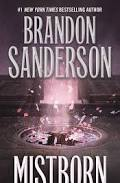
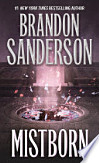
Draft 1

diff --git a/css/index.css b/css/index.css
@@ -177,11 +177,27 @@ header div p {
   font-size: 4.8rem;
   padding: 1%;
 }
+@media (max-width: 500px) {
+  .headerpg2 h1 {
+    font-size: 3.5rem;
+    margin-bottom: 2%;
+  }
+}
 footer {
   text-align: center;
 }
+@media (max-width: 500px) {
+  footer {
+    padding: 2%;
+  }
+}
 footer nav {
   margin: 2% auto;
+}
+@media (max-width: 500px) {
+  footer nav {
+    padding: 1%;
+  }
 }
 footer nav a {
   text-decoration: none;
@@ -191,6 +207,11 @@ footer nav a {
 }
 footer p {
   margin: 1% auto;
+}
+@media (max-width: 500px) {
+  footer p {
+    padding-top: 2%;
+  }
 }
 .features {
   text-align: center;
@@ -225,6 +246,7 @@ footer p {
 .book h3,
 .book h4 {
   color: black;
+  margin-top: 3%;
 }
 .book span {
   color: #FCE181;
@@ -239,17 +261,9 @@ footer p {
   margin: 3% 5%;
   width: 20%;
 }
-.book .books article .shrink {
-  width: 44%;
-}
-@media (max-width: 800px) {
-  .book .books article .shrink {
-    width: 65%;
-  }
-}
 @media (max-width: 500px) {
-  .book .books article .shrink {
-    width: 100%;
+  .book .books article {
+    width: 40%;
   }
 }
 .pg2content {
@@ -260,6 +274,11 @@ footer p {
 .pg2content div {
   align-items: center;
   width: 30%;
+}
+@media (max-width: 500px) {
+  .pg2content div {
+    width: 100%;
+  }
 }
 .pg2content div img {
   width: 65%;

diff --git a/index.html b/index.html
@@ -36,7 +36,7 @@
         <div class="books">    
             <article>
                 <div>
-                   <a href =""><img class ="shrink" src="images/WOK.jpg"></a>
+                   <a href =""><img src="images/WOK.jpg"></a>
                 </div>
                 <div>
                     <h3> The Way of Kings by Brandon Sanderson</h3>
@@ -56,7 +56,7 @@
             </article>
             <article>
                 <div> 
-                    <a href =""><img class ="shrink" src="images/MIST.jpg"></a>
+                    <a href =""><img src="images/MIST.jpg"></a>
                 </div>
                 <div>
                     <h3>MISTBORN by Brandon Sanderson</h3>

diff --git a/less/books.less b/less/books.less
@@ -5,6 +5,7 @@
     }
     h3, h4{
         color:black;
+        margin-top: 3%;
     }
     span{
         color:@lighter;
@@ -18,15 +19,8 @@
         article{
             margin: 3% 5%;
             width: 20%;
-
-            .shrink{
-                width: 44%;
-                @media @tablet{
-                    width:65%;
-                }
-                @media @mobile{
-                    width:100%;
-                }
+            @media @mobile{
+                width: 40%;
             }
         }
     }

diff --git a/less/footer.less b/less/footer.less
@@ -1,7 +1,13 @@
 footer{
     text-align: center;
+    @media @mobile{
+        padding: 2%;
+    }
      nav{
         margin: 2% auto;
+        @media @mobile{
+            padding: 1%;
+        }
         a{
             text-decoration: none;
             font-size: 1.6rem;
@@ -11,6 +17,9 @@ footer{
     }
     p{
         margin: 1% auto;
+        @media @mobile{
+            padding-top: 2%;
+        }
     }
  }
 

diff --git a/less/aboutpage.less b/less/aboutpage.less
@@ -3,10 +3,12 @@
     flex-flow: wrap;
     justify-content: center;
     
-    
     div{
         align-items: center;
         width: 30%;
+        @media @mobile{
+            width: 100%;
+        }
         img{
             width: 65%;
             border-radius: 20%;

diff --git a/less/nav.less b/less/nav.less
@@ -32,5 +32,9 @@ header{
      h1{
         font-size: 4.8rem;
         padding: 1%;
+        @media @mobile{
+            font-size: 3.5rem;
+            margin-bottom: 2%;
+        }
     }
  }
